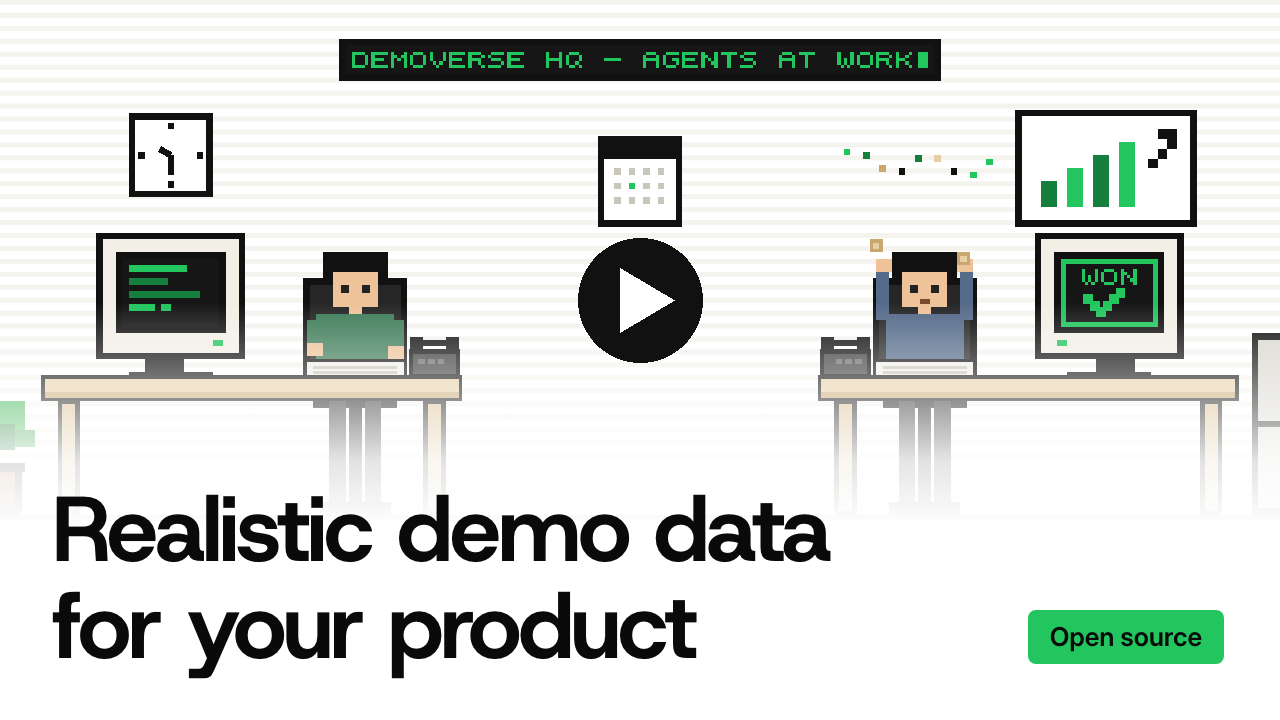
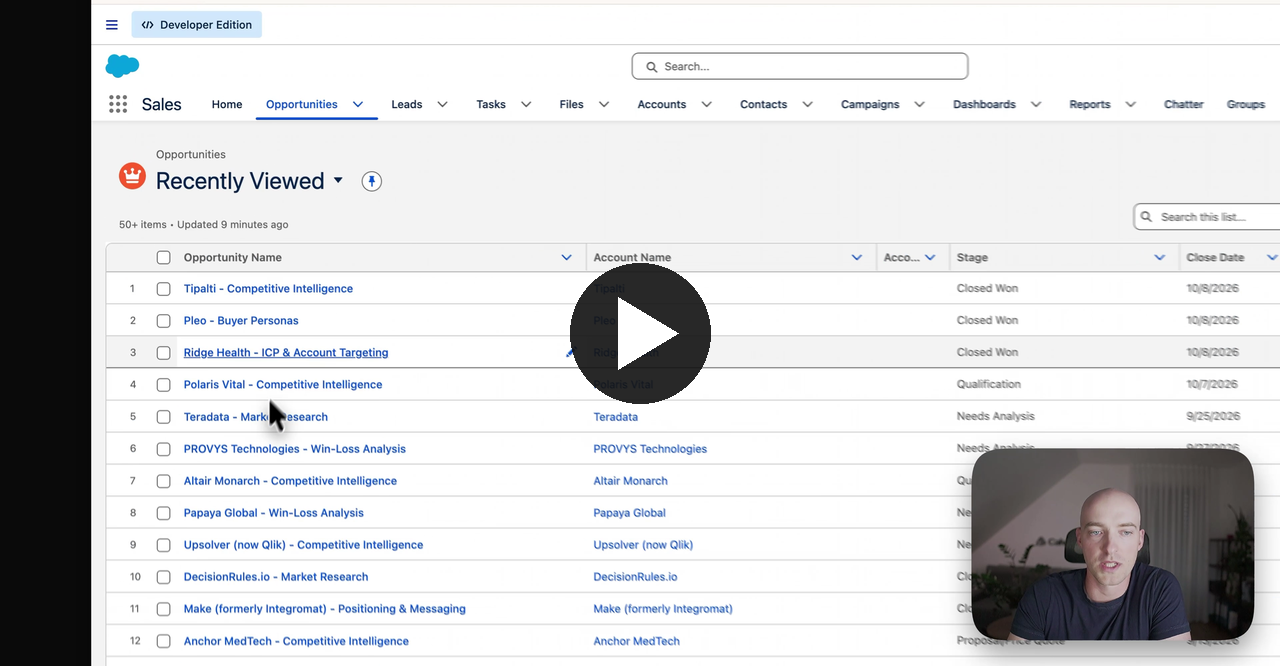
docs: hero back on top, video walkthrough below the intro

diff --git a/README.md b/README.md
@@ -1,12 +1,11 @@
+<p align="center">
+  <img src="docs/assets/hero.svg" alt="Demoverse, a living synthetic sales world" width="820">
+</p>
+
 <h1 align="center">Demoverse</h1>
 
 <p align="center">
   <b>Demoverse is an open-source synthetic B2B sales data generator that grows a fictional company's sales history in Salesforce, HubSpot, Google Drive and Slack (deals, call transcripts, emails, Slack threads, win-loss interviews) and moves it forward one week at a time, written by your Claude Code agent.</b>
-</p>
-
-<p align="center">
-  <a href="https://youtu.be/hJngH753boI"><img src="docs/assets/video-poster.png" alt="Watch the 10-minute Demoverse walkthrough on YouTube" width="820"></a><br>
-  <sub><a href="https://youtu.be/hJngH753boI">▶ Watch the 10-minute walkthrough</a></sub>
 </p>
 
 <p align="center">
@@ -42,6 +41,11 @@ ingests it like production data.
 
 Built by [Calven](https://calven.ai) to demo our own product on a believable
 company; a private deployment of this engine powers Calven's live demo.
+
+<p align="center">
+  <a href="https://youtu.be/hJngH753boI"><img src="docs/assets/video-poster.png" alt="Demoverse walkthrough on YouTube: a fictional company's opportunities in a real Salesforce org" width="720"></a><br>
+  <sub><a href="https://youtu.be/hJngH753boI">▶ Watch the 10-minute walkthrough</a>: the config, the weekly loop, then the data in Salesforce, Google Drive and Slack.</sub>
+</p>
 
 ### Works with
 

diff --git a/CHANGELOG.md b/CHANGELOG.md
@@ -35,8 +35,8 @@ All notable changes to this project are documented here. The format follows
   never outcomes; additive; dry-run with `--dry-run`.
 
 ### Changed
-- README opens with a one-sentence definition and the 10-minute video
-  walkthrough.
+- README opens with a one-sentence definition; the 10-minute video
+  walkthrough follows the intro.
 - The weekly workflow (`.github/workflows/pipeline-update.yml`) runs on Node
   24 instead of Node 20, which reached end of life on 2026-04-30 and gets no
   security fixes. Node 24 is already in the CI matrix; `engines` is
